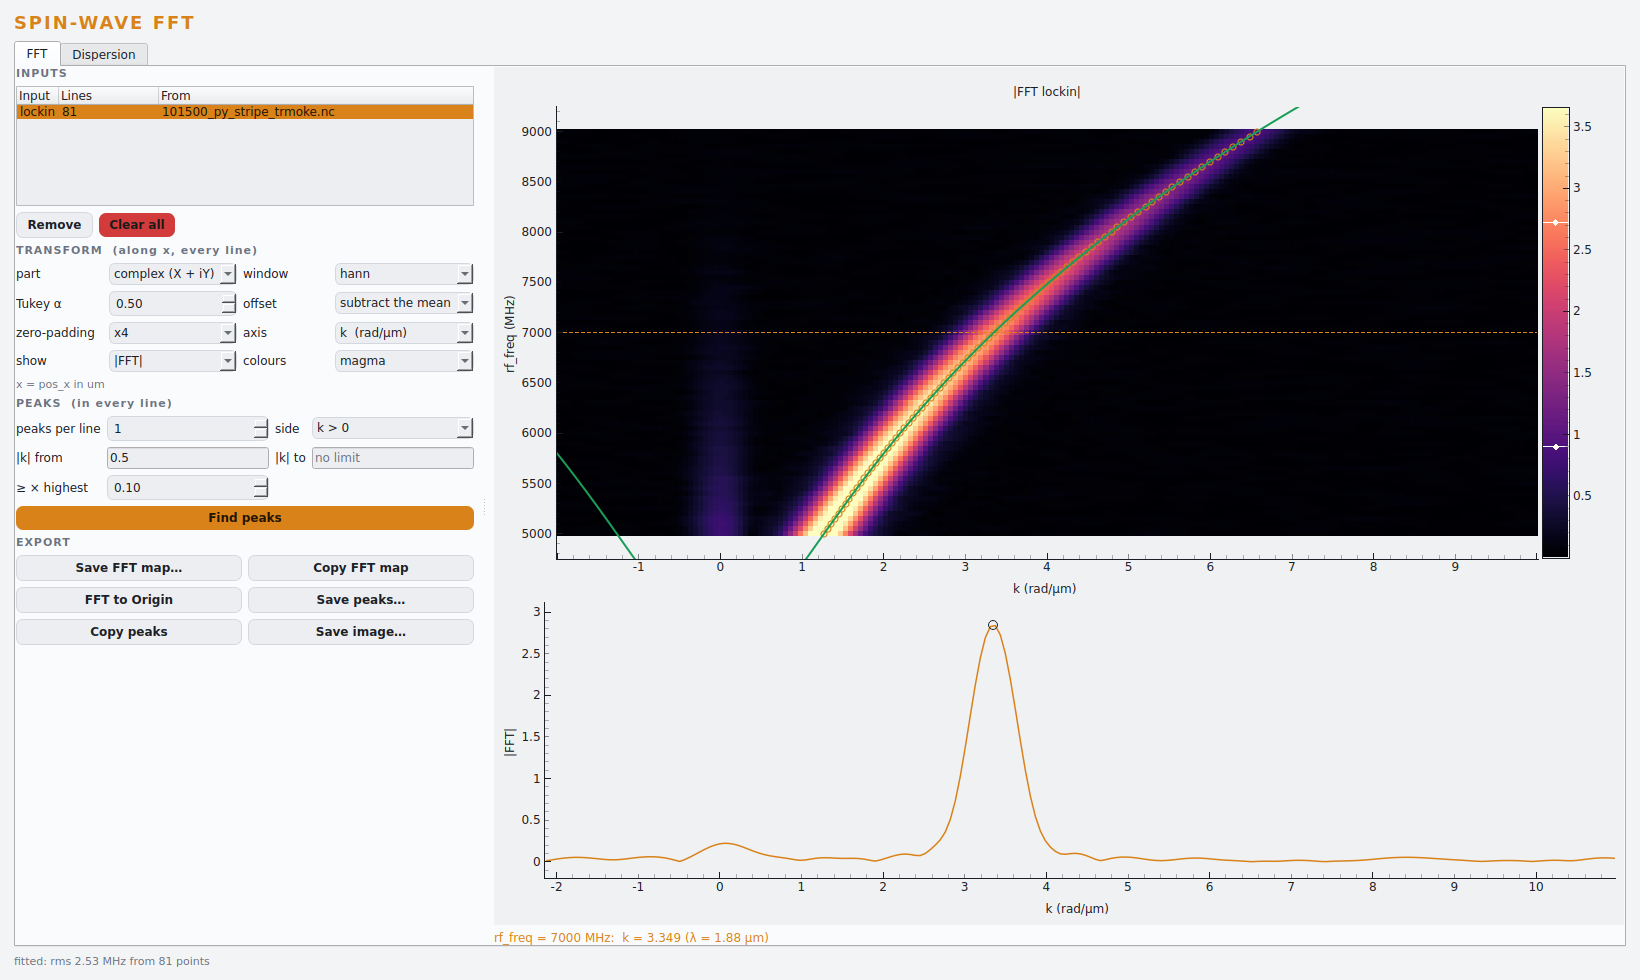
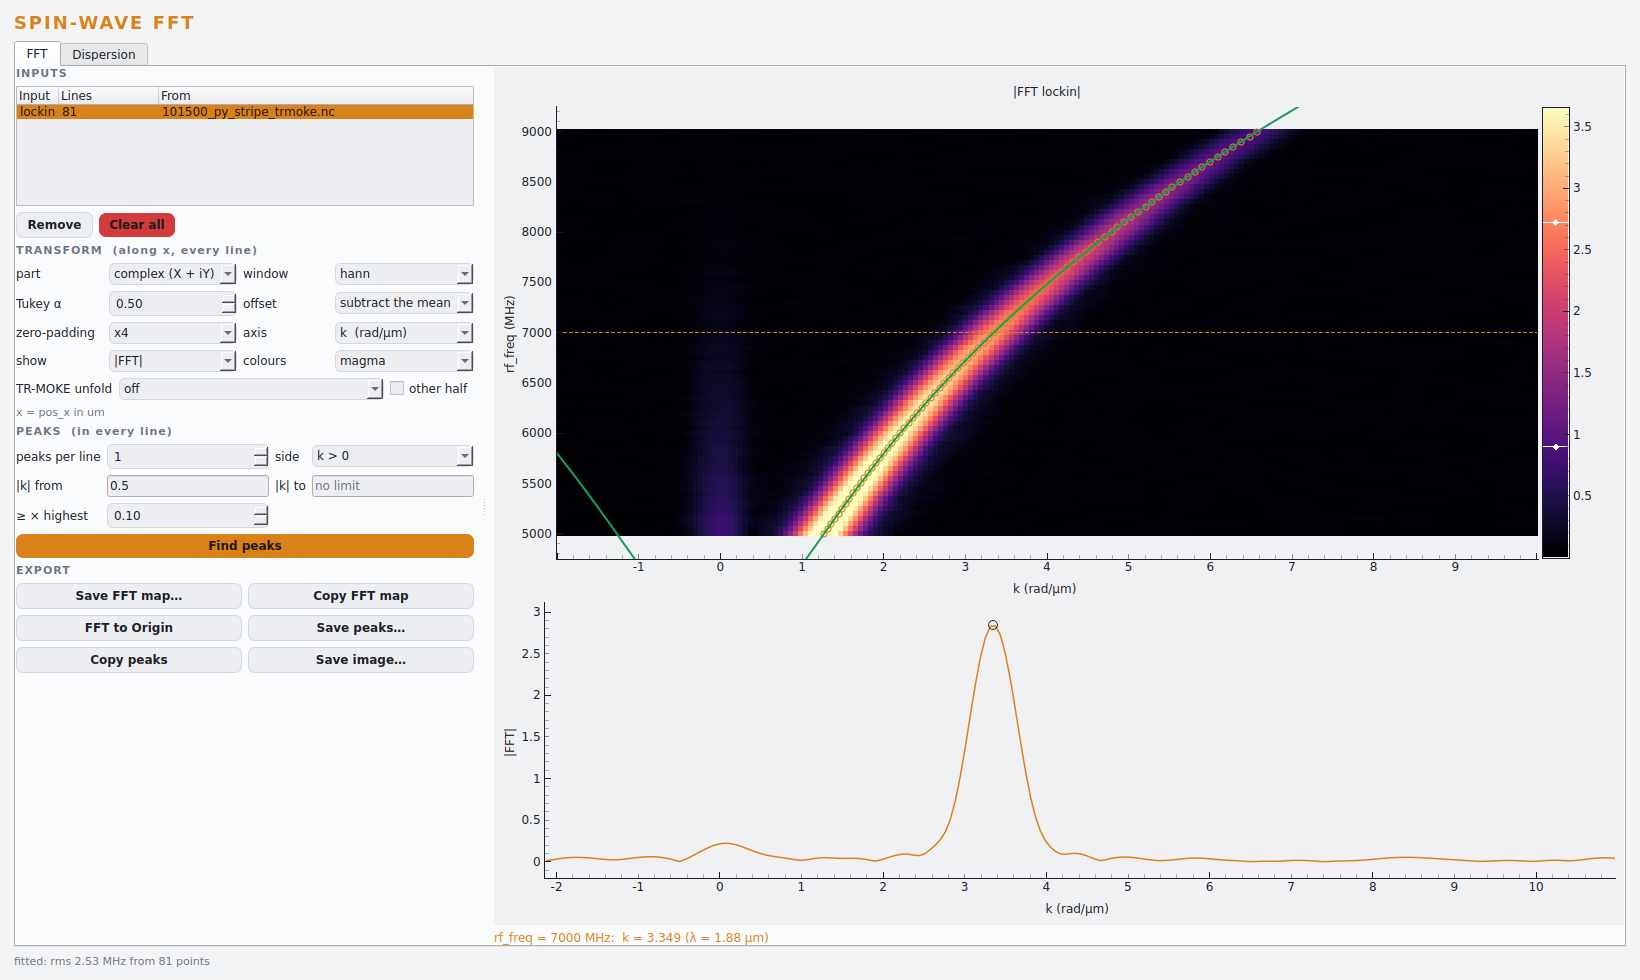
Spin-wave FFT: TR-MOKE unfold for an 80 or 100 MHz laser
A pulsed laser aliases a precession at f to f - n f_rep; where that alias is
negative the lock-in records the complex conjugate -- a wave running the
other way -- and the complex FFT's branch jumps between +k and -k every
f_rep / 2 (a dashed V). "TR-MOKE unfold" conjugates those lines back before
the FFT; "other half" for the lock-in's other sign convention. Lines on a
harmonic or half-way (alias 0 or f_rep / 2) carry no direction and are left
alone -- the alias is rounded to 1 Hz so the MHz -> GHz conversion cannot
push a half-way line to one side. Complex data only; each line's frequency
from the Dispersion tab's source; the status line says how many lines were
conjugated, or why the unfold is off.

Tests: a branch conjugated the way an 80 MHz laser does it comes back on +k
(or all on -k with "other half"); the same through the window on the demo
stripe.

Claude-Session: https://claude.ai/code/session_01JZuNGRyPwRWFfFnTSq4ExE

Changed region(s): [[0.0, 0.3673, 0.311, 0.7041], [0.2488, 0.3673, 0.2799, 0.398]]

diff --git a/AnalysisModules/spinwave-fft/src/sw_fft/app.py b/AnalysisModules/spinwave-fft/src/sw_fft/app.py
@@ -144,6 +144,26 @@ class FFTWindow(QtWidgets.QWidget):
         self.tukey.valueChanged.connect(self.transform)
         for w in (self.show_, self.cmap):
             w.currentIndexChanged.connect(self._redraw)
+        # TR-MOKE: the laser aliases f to f - n f_rep; a negative alias arrives
+        # conjugated, and the complex FFT's branch jumps between +k and -k
+        row = QtWidgets.QHBoxLayout()
+        row.addWidget(QtWidgets.QLabel("TR-MOKE unfold"))
+        self.unfold = _combo([("off", 0.0)] + [(f"{r:g} MHz laser", r) for r in F.REP_RATES],
+                             "Stroboscopic detection aliases f to f − n·f_rep; where that is "
+                             "negative the lock-in\nrecords the complex conjugate (a wave "
+                             "running the other way): the branch jumps between\n+k and −k "
+                             "every f_rep/2. Unfold conjugates those lines back. Complex data "
+                             "only;\nthe frequency of each line comes from the Dispersion "
+                             "tab's 'frequency f'.")
+        self.unfold_invert = QtWidgets.QCheckBox("other half")
+        self.unfold_invert.setToolTip("Conjugate the lines with a POSITIVE alias instead: "
+                                      "the lock-in's sign\nconvention decides which half. "
+                                      "Try it if the branch comes out at −k.")
+        row.addWidget(self.unfold, 1)
+        row.addWidget(self.unfold_invert)
+        lv.addLayout(row)
+        self.unfold.currentIndexChanged.connect(self.transform)
+        self.unfold_invert.toggled.connect(self.transform)
         self.x_note = QtWidgets.QLabel("")
         self.x_note.setWordWrap(True)
         self.x_note.setStyleSheet(f"color:{C['muted']}; font-size:11px;")
@@ -416,7 +436,8 @@ class FFTWindow(QtWidgets.QWidget):
         inp = self.current()
         if inp is None:
             return
-        sp = self._guard("FFT", lambda: F.spectra(inp.x, inp.rows, self.settings(), inp.x_unit))
+        rows, note = self._unfolded(inp)
+        sp = self._guard("FFT", lambda: F.spectra(inp.x, rows, self.settings(), inp.x_unit))
         if sp is None:
             return
         old_unit = self.spectrum.k_unit if self.spectrum is not None else sp.k_unit
@@ -428,10 +449,29 @@ class FFTWindow(QtWidgets.QWidget):
                     edit.setText(f"{_float(edit.text(), 0.0) * f:.4g}")
         if self.peaks:                       # settings changed: find them again
             self.find_peaks(quiet=True)
+            if note:
+                self.say(f"peaks found again{note}", error=note.startswith(";  unfold OFF"))
         else:
             self._redraw()
             self.say(f"FFT of {len(inp.y)} lines: {sp.F.shape[1]} points in k, resolution "
-                     f"2π/L = {sp.resolution:.3g} {R.k_title(sp.k_unit)[1]}")
+                     f"2π/L = {sp.resolution:.3g} {R.k_title(sp.k_unit)[1]}{note}",
+                     error=note.startswith(";  unfold OFF"))
+
+    def _unfolded(self, inp: I.Input):
+        """The rows to transform: TR-MOKE-unfolded when asked (and possible)."""
+        rep = self.unfold.currentData() or 0.0
+        if not rep:
+            return inp.rows, ""
+        if not inp.complex or self.part.currentData() != "complex":
+            return inp.rows, ";  unfold OFF: it needs the complex (X + iY) signal"
+        fs = I.Source(self.f_src.currentData() or "constant", self._const(self.f_const))
+        f = np.array([I.quantity(inp, i, fs) for i in range(len(inp.y))])
+        if fs.how == "constant" or not np.isfinite(f).any():
+            return inp.rows, (";  unfold OFF: the lines have no frequency of their own "
+                              "(Dispersion tab: frequency f)")
+        rows, flipped = F.unfold(inp.rows, f, rep, self.unfold_invert.isChecked())
+        return rows, (f";  unfolded for {rep:g} MHz: {int(flipped.sum())} of {len(f)} "
+                      f"lines conjugated")
 
     def find_peaks(self, *_, quiet=False):
         inp, sp = self.current(), self.spectrum
@@ -554,6 +594,8 @@ class FFTWindow(QtWidgets.QWidget):
         if self._filling:
             return
         self._const_enable()
+        if self.unfold.currentData():        # the unfold needs each line's frequency
+            self.transform()
         self._make_points()
         self._draw_dispersion()
 

diff --git a/AnalysisModules/spinwave-fft/tests/test_sw_fft.py b/AnalysisModules/spinwave-fft/tests/test_sw_fft.py
@@ -100,3 +100,39 @@ def test_several_peaks_strongest_first_and_the_side():
     assert [round(q.k, 1) for q in p] == [2.0, 5.0]
     # Hann: half AMPLITUDE at +-1 bin (1.44 bins is the half-POWER width)
     assert p[0].fwhm == pytest.approx(2 * np.pi / 40 * 2.0, rel=0.1)
+
+
+# ─────────────────────────────── TR-MOKE unfold ───────────────────────────────
+
+def test_the_alias_of_a_pulsed_laser():
+    f = np.array([1.70, 1.73, 1.75, 1.78, 1.80, 1.84])          # GHz
+    assert F.alias(f, 80.0) == pytest.approx([20, -30, -10, 20, 40, 0])
+    assert F.alias([2.03, 2.07], 100.0) == pytest.approx([30, -30])
+    # half-way stays half-way, whatever the rounding of the unit conversion
+    assert F.alias([6600.0 * 1e-3, 6.6], 80.0) == pytest.approx([40, 40])
+
+
+def test_unfold_puts_a_dashed_v_back_on_one_branch():
+    """TR-MOKE: every line with a negative alias arrives conjugated -- the wave
+    seems to run the other way. Unfolded, all lines are at +k again."""
+    x = np.linspace(0, 40, 321)
+    f = np.arange(1.70, 2.70, 0.01)                              # GHz, 10 MHz steps
+    k = 1.0 + 3.0 * (f - 1.70)                                   # a rising branch, rad/um
+    true = np.array([np.exp(1j * (kk * x + 0.4)) for kk in k])
+    d = F.alias(f, 80.0)
+    seen = np.where((d < 0)[:, None], np.conj(true), true)       # what the lock-in gives
+    sp = F.spectra(x, seen, F.Settings())
+    signs = np.sign([F.find_peaks(sp.k, m, F.PeakSettings())[0].k for m in sp.magnitude])
+    assert (signs < 0).sum() > 30 and (signs > 0).sum() > 30     # the dashed V
+    rows, flipped = F.unfold(seen, f, 80.0)
+    assert flipped.sum() == (d < 0).sum()
+    sp = F.spectra(x, rows, F.Settings())
+    got = np.array([F.find_peaks(sp.k, m, F.PeakSettings())[0].k for m in sp.magnitude])
+    assert np.all(got > 0)
+    assert got == pytest.approx(k, abs=0.03)
+    # the other half: everything at -k instead (the lock-in's other convention)
+    rows, _ = F.unfold(seen, f, 80.0, invert=True)
+    sp = F.spectra(x, rows, F.Settings())
+    ok = (np.abs(d) > 0) & (np.abs(d) < 40)                      # on a harmonic / half-way: no sign
+    signs = np.sign([F.find_peaks(sp.k, m, F.PeakSettings())[0].k for m in sp.magnitude])
+    assert np.all(signs[ok] < 0)

diff --git a/AnalysisModules/spinwave-fft/src/sw_fft/fft.py b/AnalysisModules/spinwave-fft/src/sw_fft/fft.py
@@ -298,3 +298,45 @@ def all_peaks(sp: Spectrum, ps: PeakSettings) -> list[Peak]:
         out.extend(find_peaks(sp.k, mag[i], ps, line=i))
     return out
 
+
+
+# ─────────────────────────────── TR-MOKE unfold ───────────────────────────────
+
+#: laser repetition rates offered (MHz)
+REP_RATES = (80.0, 100.0)
+
+
+def alias(f_ghz, f_rep_mhz: float) -> np.ndarray:
+    """The frequency (MHz) a pulsed laser of repetition rate f_rep samples a
+    precession at f down to: f - n f_rep, n the nearest harmonic, in
+    (-f_rep/2, +f_rep/2]."""
+    f = np.asarray(f_ghz, dtype=float) * 1e3
+    d = np.mod(f + f_rep_mhz / 2, f_rep_mhz) - f_rep_mhz / 2
+    # to 1 Hz: 6.6 GHz from 6600 MHz is 6600.000000000001 MHz, whose alias
+    # would be -39.99999 instead of the half-way 40 (no direction, not flipped)
+    d = np.round(d, 6)
+    return np.where(d == -f_rep_mhz / 2, f_rep_mhz / 2, d)
+
+
+def unfold(rows, f_ghz, f_rep_mhz: float, invert: bool = False):
+    """Undo the sign flip of stroboscopic (TR-MOKE) detection.
+
+    The laser samples the precession at f_rep, so the lock-in sees it at the
+    alias f - n f_rep. It cannot tell a negative alias from a positive one: on
+    the lines where the alias is negative it records the COMPLEX CONJUGATE --
+    a wave running the other way. In a complex FFT the branch then jumps
+    between +k and -k every f_rep / 2 (a dashed V). Those lines are
+    conjugated back here, so every line keeps the wave's true direction.
+
+    Which half is conjugated depends on the lock-in's sign convention and the
+    reference: `invert` takes the other half. Lines ON a harmonic or exactly
+    between two (alias 0 or f_rep / 2) carry no direction and are left as
+    they are.
+
+    Returns (rows, flipped): the corrected rows and a bool per line."""
+    rows = np.array(rows, dtype=complex, copy=True)
+    d = alias(f_ghz, f_rep_mhz)
+    flipped = (d > 0) if invert else (d < 0)
+    flipped &= np.isfinite(d) & (np.abs(d) < f_rep_mhz / 2)
+    rows[flipped] = np.conj(rows[flipped])
+    return rows, flipped

diff --git a/AnalysisModules/spinwave-fft/tests/test_sw_app.py b/AnalysisModules/spinwave-fft/tests/test_sw_app.py
@@ -117,3 +117,30 @@ def test_width_modes_can_be_switched_off(win):
         assert enabled == (n not in W.WIDTH_PARAMS), n
     win.pinning.setCurrentIndex(win.pinning.findData("guslienko"))
     assert win.mtable.item(list(W.PARAMS).index("w"), 4).flags() & QtCore.Qt.ItemIsEnabled
+
+
+def test_tr_moke_unfold_in_the_window(win, stripe_map):
+    """The stripe map as a TR-MOKE with an 80 MHz laser would record it: lines
+    with a negative alias conjugated. Unfold (80 MHz) puts every peak at +k."""
+    import copy
+    from sw_fft import fft as F
+    ds, path, m = stripe_map
+    seen = copy.deepcopy(m)
+    d = F.alias(seen.y / 1000.0, 80.0)                           # rf_freq in MHz
+    seen.z = np.where((d < 0)[:, None], np.conj(m.z), m.z)
+    win.add_maps([seen])
+    win.kmin.setText("0.5")
+    win.find_peaks()
+    assert any(p.k < 0 for p in win.peaks)                       # the dashed V
+    win.unfold.setCurrentIndex(win.unfold.findData(80.0))
+    assert all(p.k > 0 for p in win.peaks)
+    assert "unfolded for 80 MHz" in win.status.text()
+    win.unfold_invert.setChecked(True)
+    # every line that has a direction goes to -k; on a harmonic or half-way
+    # (alias 0 or 40 MHz: 2 lines in 8 at 50 MHz steps) there is none to flip
+    has_sign = (np.abs(d) > 0) & (np.abs(d) < 40)
+    assert sorted(p.line for p in win.peaks if p.k < 0) == list(np.flatnonzero(has_sign))
+    # no frequency per line: said, not guessed
+    win.unfold_invert.setChecked(False)
+    win.f_src.setCurrentIndex(win.f_src.findData("constant"))
+    assert "unfold OFF" in win.status.text()

diff --git a/AnalysisModules/spinwave-fft/README.md b/AnalysisModules/spinwave-fft/README.md
@@ -38,6 +38,32 @@ Bottom: the line at 7 GHz.*
 | **axis** | **k in rad/µm** (k = 2π/λ) or **1/λ in 1/µm**. The x unit (nm, µm, mm, m) is converted to µm. |
 | **show** | \|FFT\|, \|FFT\|² or log10 \|FFT\|. |
 
+### TR-MOKE unfold (80 / 100 MHz laser)
+
+A pulsed laser samples the precession f_rep times a second, so the lock-in sees
+a wave at f at the **alias** f − n·f_rep, where n·f_rep is the nearest harmonic
+and the alias lies in (−f_rep/2, +f_rep/2]. The lock-in cannot tell a negative
+alias from a positive one: on those lines it records the **complex
+conjugate**, i.e. a wave running the other way.
+
+In a complex FFT the branch then jumps between +k and −k every f_rep/2, which
+shows up as a dashed V. A real part doesn't show it, because it holds ±k
+equally anyway.
+
+**TR-MOKE unfold → 80 MHz / 100 MHz laser** conjugates those lines back before
+the FFT, so every line keeps the wave's true direction:
+
+- **Complex data only.** Each line's frequency comes from the Dispersion tab's
+  *frequency f* (normally the lines' own rf_freq).
+- **"other half"** conjugates the lines with a *positive* alias instead. Which
+  half is right depends on the lock-in's sign convention; if the branch comes
+  out at −k, tick it.
+- **Lines with no direction are left as they are.** A line exactly on a
+  harmonic (alias 0) or half-way between two (alias f_rep/2) records no
+  direction. With 10 MHz steps and an 80 MHz laser that is 2 lines in 8.
+- **The status line** says how many lines were conjugated, or why the unfold is
+  off.
+
 The spectrum is **normalised by the sum of the window**: a pure wave of
 amplitude A gives |F(k₀)| = A whatever the window, length or padding. Uneven
 steps are interpolated onto an even grid, and NaN holes (a running or aborted
@@ -123,7 +149,8 @@ All tables have AaltoView's three header rows (name / unit / comment).
 ## Tests
 
 - `tests/test_sw_fft.py` checks the transform against waves with a **known**
-  k:
+  k, and the TR-MOKE unfold against a branch conjugated the way an 80 MHz
+  laser does it:
   - both travel directions, and real vs complex data;
   - units, holes, uneven steps, offsets, padding vs resolution;
   - several peaks per line, and the width of the Hann peak.
